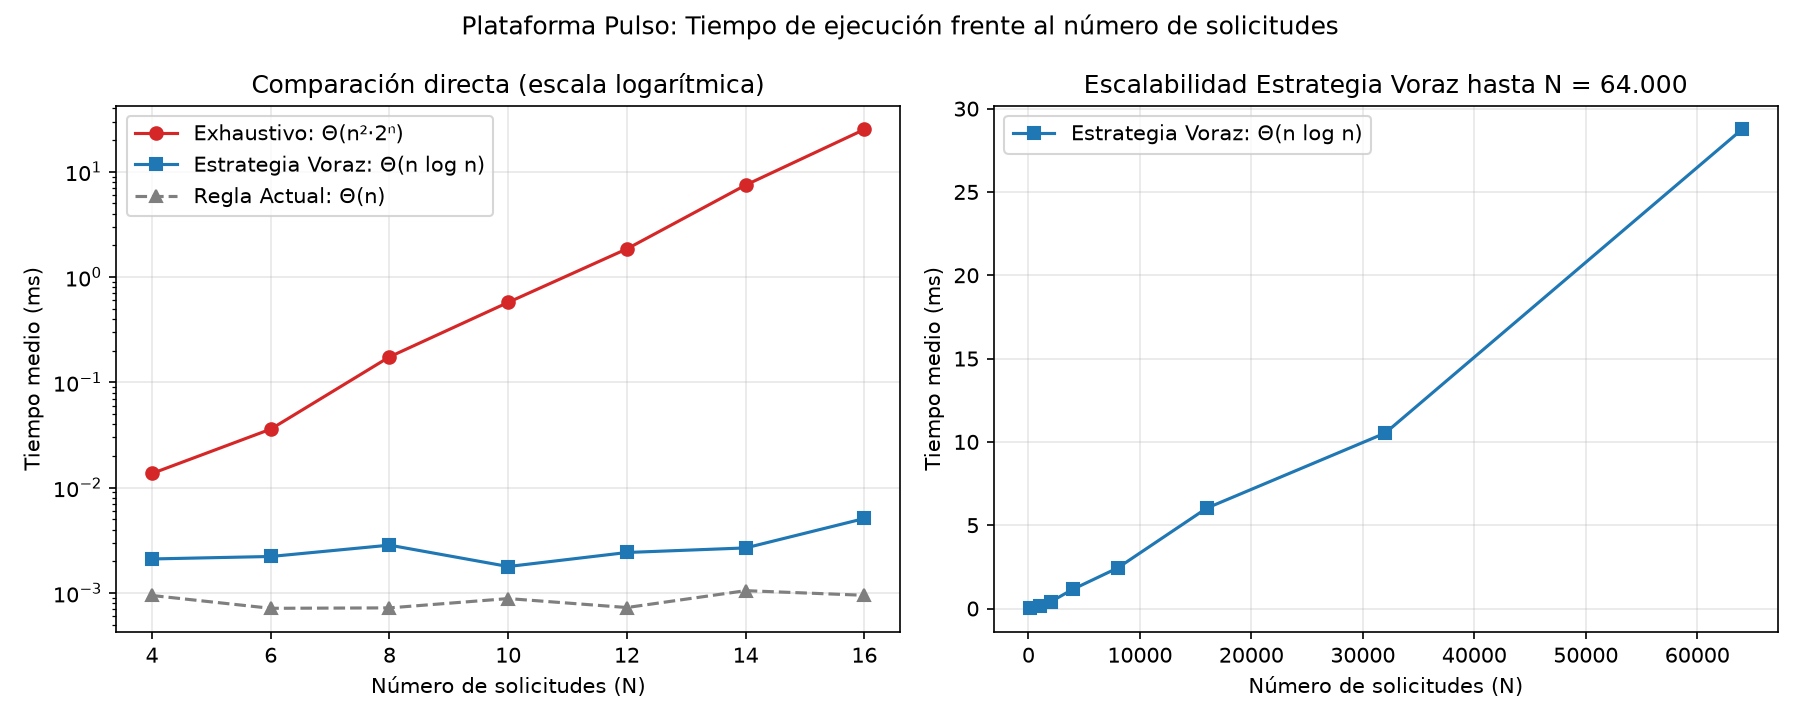
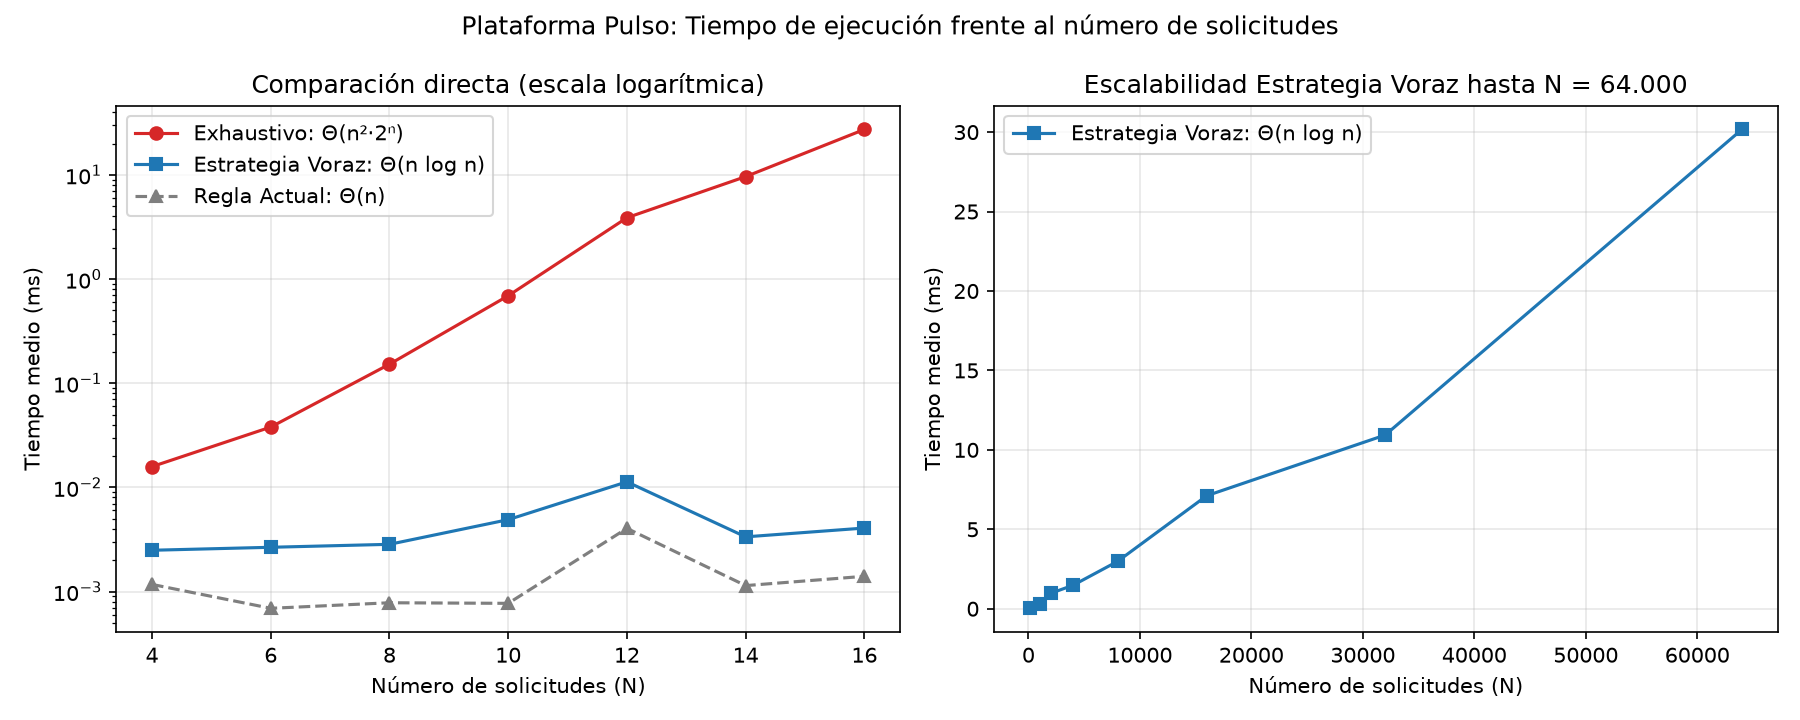
Análisis empírico, extrapolación energética y actualización del README

diff --git a/README.md b/README.md
@@ -83,9 +83,7 @@ $S_1, S_2, S_3, S_4$:
 
 **Condicion contraria**
 Para que la programacion dinamiaca de intervalos ponderados fuera la estrategia adecuada en lugar de la estrategia voraz de seleccion de actividades, el objetivo del negocio tendria que cambiar de maximizar la cantida de jornadas a maximizar el numero total de pacientes de alto riesgo atendidos, donde cada jornada tiene un peso diferente ($\text{pacientes}_i$) y elegir la jornada de menor duracion no garantiza acumular el mayor numero de pacientes. 
-<<<<<<< HEAD
 
-=======
 ---
 
 ## Evaluación del desempeño (Operación 3: Jornadas de unidades móviles)
@@ -148,4 +146,4 @@ Las mediciones se realizaron en [`medicion.py`](src/jornadas_unidades/medicion.p
 Con el entorno virtual activado y las dependencias instaladas (`pip install -r requirements.txt`):
 - **Ejecutar pruebas unitarias:** `python3 src/jornadas_unidades/pruebas.py`
 - **Ejecutar experimentos y regenerar gráficas:** `python3 src/jornadas_unidades/medicion.py`
->>>>>>> d1bf0ae2747f11e686664169dfbcf4a58f663dbd
+
